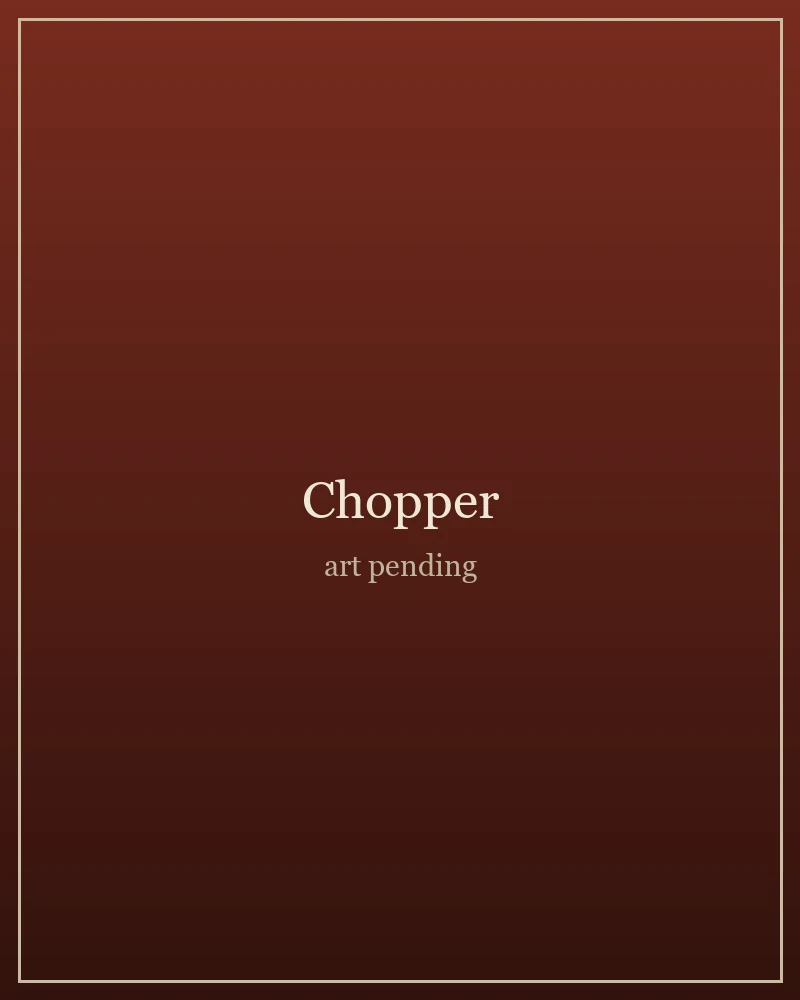
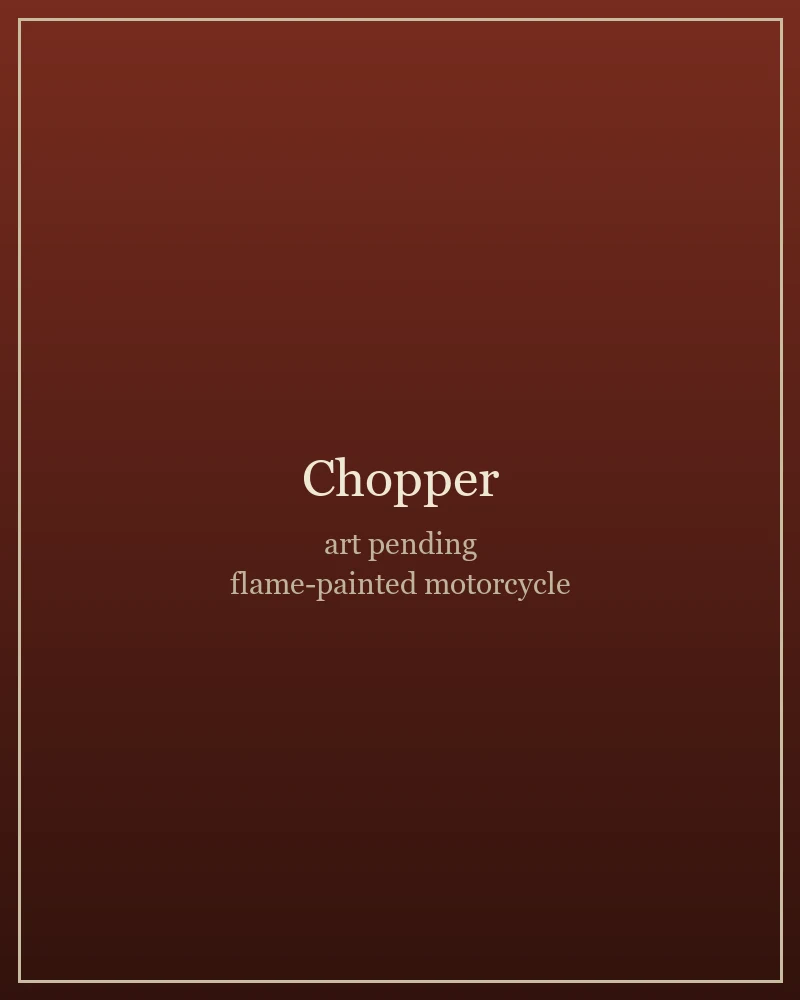
fix(pyro): Chopper is a motorcycle, not a helicopter
Owner's word, and I had built the wrong vehicle. "Flame chopper" sat in a list
between an artillery mortar and a pterodactyl, so it read as a gunship and got
FLYING, a Ranged attack and a Napalm Drop dumped from above.

Rebuilt as the bike:
- FLYING removed and the attack goes MELEE. A chopper rides you down; it does
  not hover.
- Re-cut toward SPEED, which is what a bike is: 3/9/13 instead of 3/12/10, still
  exact on the cost-3 budget. SP 13 makes it one of the first things to move
  each round, and it is frail enough that being fast is the only defence it has.
- Throttle (`advanceOnBasic`) — it does not stop after it swings. Rolling a slot
  in on every basic is what carries the burning trail up the board, and it is
  the passive that most makes it read as a vehicle rather than a body.
- Peel Out replaces Napalm Drop. Same `rowAhead` shape, and a better fit for it:
  a bike running the length of a line, where it used to be a payload dropped on
  one.

Drip Torch survives the rewrite untouched, because a drip torch is literally the
tool you lay a fire LINE with — it fitted a motorcycle better than it ever
fitted the helicopter I attached it to.

Nothing else moves: still a cost-3 Rare with a Talent, still PYRO's Support
(a board-effect Support is that element's idiom — Smog, Canister and Scorch are
all effects rather than healers), so the 2/2/1 mix and the class counts hold.

Its placeholder art now says "flame-painted motorcycle" so whoever draws it is
[…]

Changed region(s): [[0.2812, 0.434, 0.7188, 0.589]]

diff --git a/src/data/cards.ts b/src/data/cards.ts
@@ -12540,26 +12540,35 @@ export const CARDS: CardDef[] = [
     element: "PYRO",
     cardClass: "Support",
     tribe: "Forged Tech",
-    attackType: "Ranged",
-    // Rarity is a cost band, so the mix and the curve are one decision: this
-    // moved to hit the 2 Rare / 2 Epic / 1 Legendary split every element now
-    // carries, and the stat line is re-cut to the budget that comes with it.
+    // A MOTORCYCLE, not a helicopter — which is what it was built as first, and
+    // the difference is the whole card. No FLYING, it closes on the ground, and
+    // the fire it lays is a trail behind it rather than a load dropped from
+    // above. Melee: a chopper rides you down.
+    attackType: "Melee",
     cost: 3,
-    // 3 + 12 + 10 = 25 = 5*3+10.
-    // class at 5, and a board-effect Support matches its idiom (Smog, Canister
-    // and Scorch are all effects, not healers) -- a PYRO healer would fight the
-    // element's own anti-heal identity.
+    // 3 + 9 + 13 = 25 = 5*3+10. Re-cut toward SPEED, which is what a bike is:
+    // SP 13 on a cost-3 body makes it one of the first things to move each
+    // round, and it is frail enough that being fast is the only defence it has.
     dmg: 3,
     hits: 1,
-    hp: 12,
-    sp: 10,
+    hp: 9,
+    sp: 13,
     shields: 0,
-    keywords: { FLYING: true },
-    passiveNames: { roundTick: "Drip Torch" },
+    keywords: {},
+    passiveNames: { roundTick: "Drip Torch", advanceOnBasic: "Throttle" },
+    // Drip Torch survives the rewrite unchanged, because a drip torch is
+    // literally the tool you lay a fire LINE with — it fitted a bike better than
+    // it ever fitted the helicopter.
     roundTick: { inRangeStatus: { kind: "BURN", duration: 2, power: 1 } },
+    // ...and it does not stop after it swings. Rolls a slot further in on every
+    // basic, which is what carries the burning trail up the board.
+    advanceOnBasic: 1,
     talent: {
-      name: "Napalm Drop",
-      text: "Once per game, free: dump the tanks on the row directly ahead — 4 DMG and BURN 3 for 3 rounds to everything in it.",
+      name: "Peel Out",
+      text: "Once per game, free: open the throttle — 4 DMG and BURN 3 for 3 rounds to every opponent in the row directly ahead.",
+      // Same shape as before and a better fit for it: `rowAhead` is a bike
+      // running the length of a line, where it used to be a payload dropped on
+      // one.
       handler: "barrage",
       params: { dmg: 4, targets: 99, rowAhead: 1, statusKind: "BURN", statusPower: 3, statusDuration: 3 },
     },

diff --git a/src/data/lore/pyro.ts b/src/data/lore/pyro.ts
@@ -187,7 +187,7 @@ export const PYRO_LORE: Record<string, string> = {
   pyro_komodo:
     "One bite. The rest is just a matter of following you.",
   pyro_chopper:
-    "The line goes in here. Everything inside it is already burning.",
+    "It lays the line at sixty. Everything inside it is already burning.",
   pyro_warkiln:
     "It does not stop for the rank in front. That is what the rank in front is for.",
   pyro_mortar:
